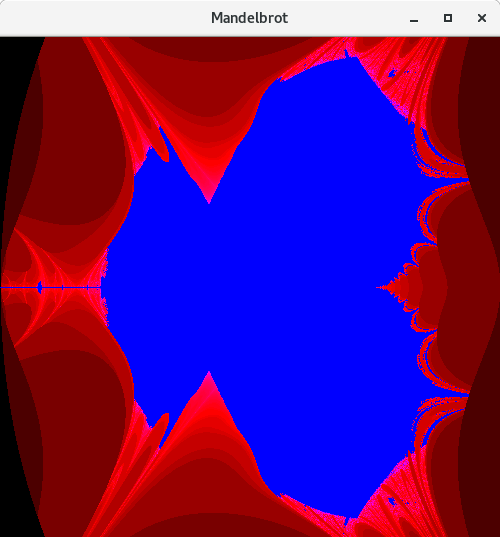
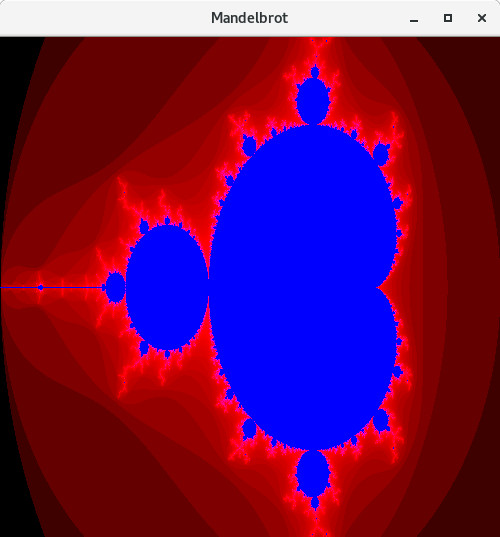
patch bug in mandelbrot computation

diff --git a/demo/mandelbrot/mandel.c b/demo/mandelbrot/mandel.c
@@ -13,16 +13,24 @@
 #include <stdlib.h>
 #include <sys/time.h>
 
+#define min_f(a, b, c) (fminf(a, fminf(b, c)))
+#define max_f(a, b, c) (fmaxf(a, fmaxf(b, c)))
+
 #define APP_NAME "Mandelbrot"
 #define DELAY 100
 #define SCREEN_DIM 500
-
 #define DIM 500
+#define MAXITER 4096
+
 #define XMIN -2.0
 #define XMAX 1.0
 #define YMIN -1.0
 #define YMAX 1.0
-#define MAXITER 1024
+
+// #define XMIN -0.2395
+// #define XMAX -0.2275
+// #define YMIN 0.648
+// #define YMAX 0.660
 
 // Returns duration in ms
 #define TIME_DIFF(t1, t2) \
@@ -43,12 +51,17 @@ typedef struct Env_t Env;
 
 /* **************************************************************** */
 
+/* row i and col j */
 uint32_t mandelbrot(float xMin, float xMax, float yMin, float yMax, int xPixels,
                     int yPixels, int maxIter, int i, int j) {
+  assert(xPixels > 0 && yPixels > 0);
+  assert(i >= 0 && i < xPixels && j >= 0 && j < yPixels);
   float dx = (xMax - xMin) / (float)xPixels;
+  assert(dx > 0.0f);
   float dy = (yMax - yMin) / (float)yPixels;
+  assert(dy > 0.0f);
   float xc = xMin + dx * j;
-  float yc = xMax - dy * i;
+  float yc = yMin + dy * i;
   float x = 0.0, y = 0.0; /* Z = X+I*Y */
   uint32_t iter;
   for (iter = 0; iter < maxIter; iter++) {
@@ -57,18 +70,23 @@ uint32_t mandelbrot(float xMin, float xMax, float yMin, float yMax, int xPixels,
     /* Stop iterations when |Z| > 2 */
     if (x2 + y2 > 4.0) break;
     /* Z = Z^2 + C */
+    float twoxy = 2.0f * x * y;
     x = x2 - y2 + xc;
-    y = (2.0 * x * y) + yc;
+    y = twoxy + yc;
   }
   return iter;
 }
 
 /* **************************************************************** */
 
-/* SDL interprets each pixel as a 32-bit number, so our masks must depend
+/* SDL interprets each pixel as a 32-bit number in RGBA format, that depends
    on the endianness (byte order) of the machine */
 
-uint32_t rgb(unsigned char r, unsigned char g, unsigned char b) {
+uint32_t rgb(uint32_t r, uint32_t g, uint32_t b) {
+  assert(r >= 0 && r <= 255);
+  assert(g >= 0 && g <= 255);
+  assert(b >= 0 && b <= 255);
+
   unsigned char a = 255; /* alpha */
 #if SDL_BYTEORDER == SDL_BIG_ENDIAN
   uint32_t color = (r << 24) | (g << 16) | (b << 8) | alpha /* big endian */;
@@ -80,26 +98,36 @@ uint32_t rgb(unsigned char r, unsigned char g, unsigned char b) {
 
 /* **************************************************************** */
 
-uint32_t iter2color(unsigned iter, unsigned maxiter) {
+uint32_t iter2rgb(uint32_t iter, uint32_t maxiter) {
   assert(iter > 0);
 
   float scale = log(iter) / log(maxiter);  // scale in range [0,1]
   assert(scale >= 0.0f && scale <= 1.0f);
   scale *= 3.0;
 
-  int r, g, b;
+  uint32_t r, g, b;
 
   if (scale < 1.0f)
     r = 255 * scale, g = 0, b = 0; /* black -> red */
   else if (scale < 2.0f)
-     r = 255, g = 0, b = 255 * (scale - 1.0); /* red -> magenta */
+    r = 255, g = 0, b = 255 * (scale - 1.0); /* red -> magenta */
   else if (scale <= 3.0f)
-     r = 255 * (3.0 - scale), g = 0, b = 255; /* magenta -> blue */
+    r = 255 * (3.0 - scale), g = 0, b = 255; /* magenta -> blue */
+  else
+    r = 0, g = 0, b = 255; /* blue */
 
-  assert(r >= 0 && r <= 255);
-  assert(g >= 0 && g <= 255);
-  assert(b >= 0 && b <= 255);
   return rgb(r, g, b);
+}
+
+/* **************************************************************** */
+
+uint32_t iter2grey(uint32_t iter, uint32_t maxiter) {
+  assert(iter > 0);
+  float scale = log(iter) / log(maxiter);  // log scale in range [0,1]
+  // float scale = iter * 1.0f / maxiter;  // linear scale in range [0,1]
+  assert(scale >= 0.0f && scale <= 1.0f);
+  uint32_t grey = scale * 255;
+  return rgb(grey, grey, grey);
 }
 
 /* **************************************************************** */
@@ -107,22 +135,15 @@ uint32_t iter2color(unsigned iter, unsigned maxiter) {
 Env* init(SDL_Window* win, SDL_Renderer* ren, int argc, char* argv[]) {
   Env* env = malloc(sizeof(struct Env_t));
 
-  uint32_t maxiter = 0;
   struct timeval t1, t2;
   gettimeofday(&t1, NULL);
   for (int i = 0; i < DIM; i++)   /* row */
     for (int j = 0; j < DIM; j++) /* col */
     {
-      int iter = mandelbrot(XMIN, XMAX, YMIN, YMAX, DIM, DIM, MAXITER, i, j);
-      env->data[i][j] = iter;
-      if (iter > maxiter) maxiter = iter;
-    }
-
-  for (int i = 0; i < DIM; i++)   /* row */
-    for (int j = 0; j < DIM; j++) /* col */
-    {
-      uint32_t iter = env->data[i][j];
-      uint32_t color = iter2color(iter, maxiter);
+      uint32_t iter =
+          mandelbrot(XMIN, XMAX, YMIN, YMAX, DIM, DIM, MAXITER, i, j);
+      uint32_t color = iter2rgb(iter, MAXITER);
+      // uint32_t color = iter2grey(iter, MAXITER);
       env->data[i][j] = color;
     }
   gettimeofday(&t2, NULL);
@@ -136,7 +157,7 @@ Env* init(SDL_Window* win, SDL_Renderer* ren, int argc, char* argv[]) {
 
   float timecomp = TIME_DIFF(t1, t2);
   printf("=> mandelbrot set of dim %dx%d computed in %.2f ms (maxiter=%d)\n",
-         DIM, DIM, timecomp, maxiter);
+         DIM, DIM, timecomp, MAXITER);
 
   return env;
 }

diff --git a/demo/make/fib.c b/demo/make/fib.c
@@ -1,10 +1,9 @@
 #include "fib.h"
 
-int fib(int n)
-{
-    if (n <= 1)
-        return 1;
-    else
-        return fib(n - 1) + fib(n - 2);
+int fib(int n) {
+  int x;
+  if (n <= 1)
+    return 1;
+  else
+    return fib(n - 1) + fib(n - 2);
 }
-
